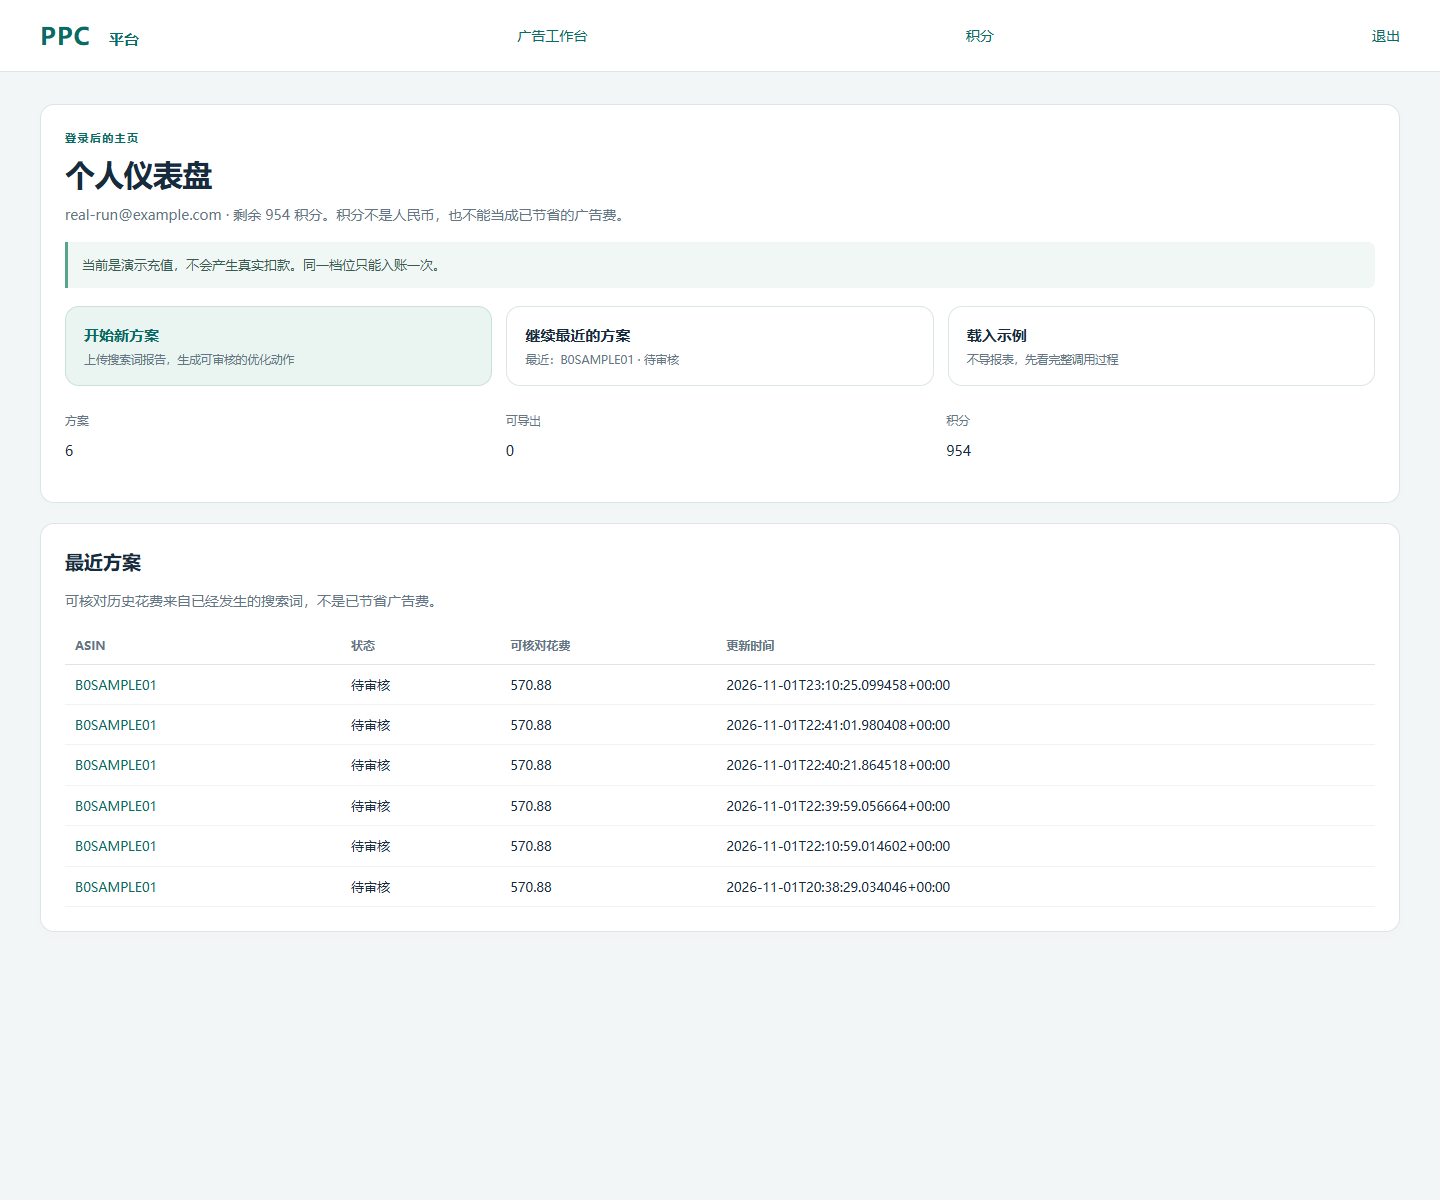
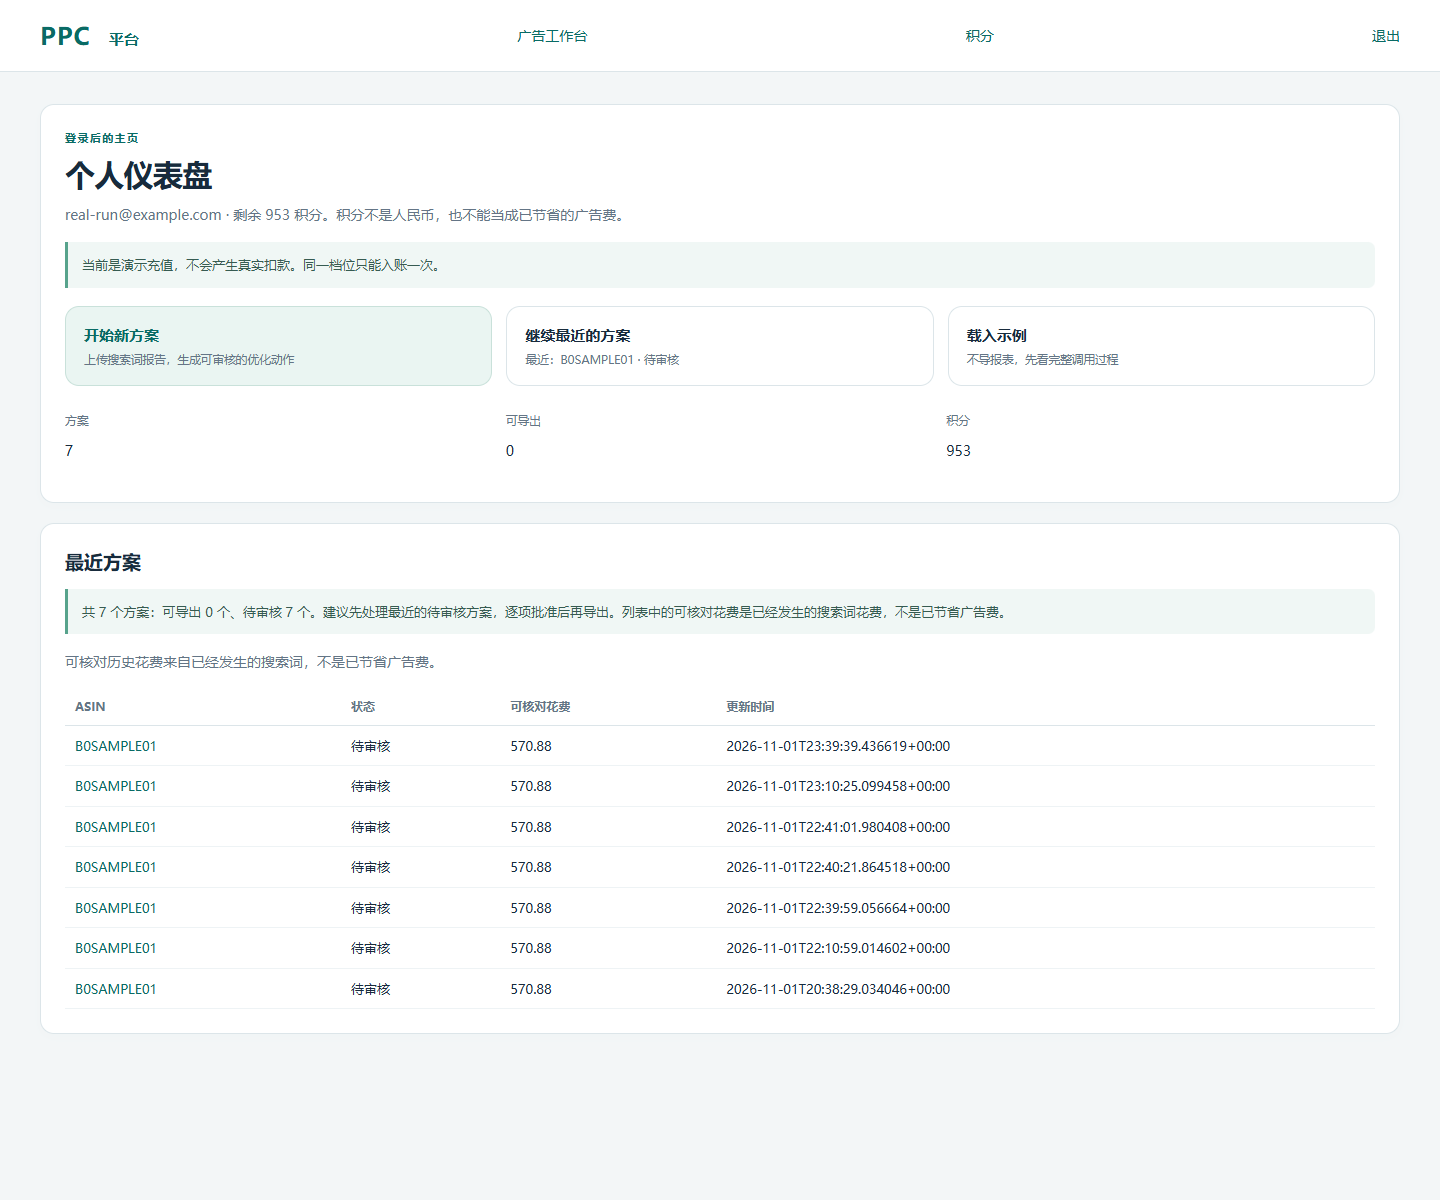
feat: add dashboard plan list conclusion sentence

Changed region(s): [[0.0312, 0.4933, 0.6875, 0.8325]]

diff --git a/frontend/reading.js b/frontend/reading.js
@@ -53,6 +53,23 @@ function reviewConclusion(review) {
   return body + lengthNote + '这是前后两个周期的描述性对比，受季节、流量、归因延迟与周期长度影响，不能证明调整造成了结果，也不构成已节省的广告费。';
 }
 
+/* Describe what the saved plans mean and what to do next. Descriptive only. */
+function planListConclusion(plans) {
+  const list = Array.isArray(plans) ? plans : [];
+  if (!list.length) return '还没有方案。可以从上方「开始新方案」或「载入示例」开始。';
+  let exportable = 0;
+  let pending = 0;
+  list.forEach((plan) => {
+    if (plan && plan.export_ready) exportable += 1;
+    else pending += 1;
+  });
+  const guidance = pending > 0
+    ? `建议先处理最近的待审核方案，逐项批准后再导出`
+    : `所有方案都已可导出，进入工作台下载草稿、核对列名与实体 ID 后再执行`;
+  return `共 ${list.length} 个方案：可导出 ${exportable} 个、待审核 ${pending} 个。${guidance}。列表中的可核对花费是已经发生的搜索词花费，不是已节省广告费。`;
+}
+
 window.metricsReading = metricsReading;
 window.reviewConclusion = reviewConclusion;
-if (typeof module !== 'undefined') module.exports = { metricsReading, reviewConclusion };
+window.planListConclusion = planListConclusion;
+if (typeof module !== 'undefined') module.exports = { metricsReading, reviewConclusion, planListConclusion };

diff --git a/frontend/dashboard.html b/frontend/dashboard.html
@@ -7,6 +7,7 @@
   <link rel="stylesheet" href="/workflow.css">
   <script src="/plan-link.js"></script>
   <script src="/point-cost.js"></script>
+  <script src="/reading.js"></script>
   <script src="/dashboard.js" defer></script>
 </head>
 <body>
@@ -32,6 +33,7 @@
   </section>
   <section class="panel">
     <h2>最近方案</h2>
+    <p id="plans-conclusion" class="callout"></p>
     <div id="plans"><p class="muted">正在加载…</p></div>
   </section>
 </main>

diff --git a/frontend/dashboard.js b/frontend/dashboard.js
@@ -27,6 +27,7 @@
     }));
     const root = document.getElementById('plans');
     root.replaceChildren();
+    document.getElementById('plans-conclusion').textContent = window.planListConclusion(list);
     const continueCard = document.getElementById('continue-card');
     const continueNote = document.getElementById('continue-note');
     const intro = document.createElement('p');

diff --git a/docs/原型对标技术拆解.md b/docs/原型对标技术拆解.md
@@ -110,4 +110,7 @@ D1 → D2 → D3（P0 一次提交）；D4 → D5 → D6（P1 一次提交）。
 
 - D5b **阻断原因点名**（2026-11-02 增强）：结论卡不再只说"确认缺少的报表"，而是聚合 `blocking_reasons` 后出现频次最高的两项并直接点名。真实示例方案文案：「建议先核对那 41 个被阻断的动作（**主要是：缺少 ad_group_id 41 项、缺少 campaign_id 41 项**）」——一眼看出是没传 Bulk 报告导致，而不是让用户自己猜。测试 6 项（含原因聚合与排序）。
 
+- D16 **仪表盘结论句**（2026-11-02 落地）：`reading.js` 新增 `planListConclusion()`，在最近方案列表上方给出「共 N 个方案：可导出 M 个、待审核 K 个 + 下一步指引」，并固定声明列表中的可核对花费不是已节省广告费。真实账号实测：「共 7 个方案：可导出 0 个、待审核 7 个。建议先处理最近的待审核方案，逐项批准后再导出。」
+  - 测试 13 项（reading.test.cjs）：含空列表指向下一步、可导出/待审核计数、全部可导出时改为下载核对指引、不把历史花费写成节省。
+
 - 均已在真实浏览器截图验证（`docs/对标快照/local-workflow.png`）。
